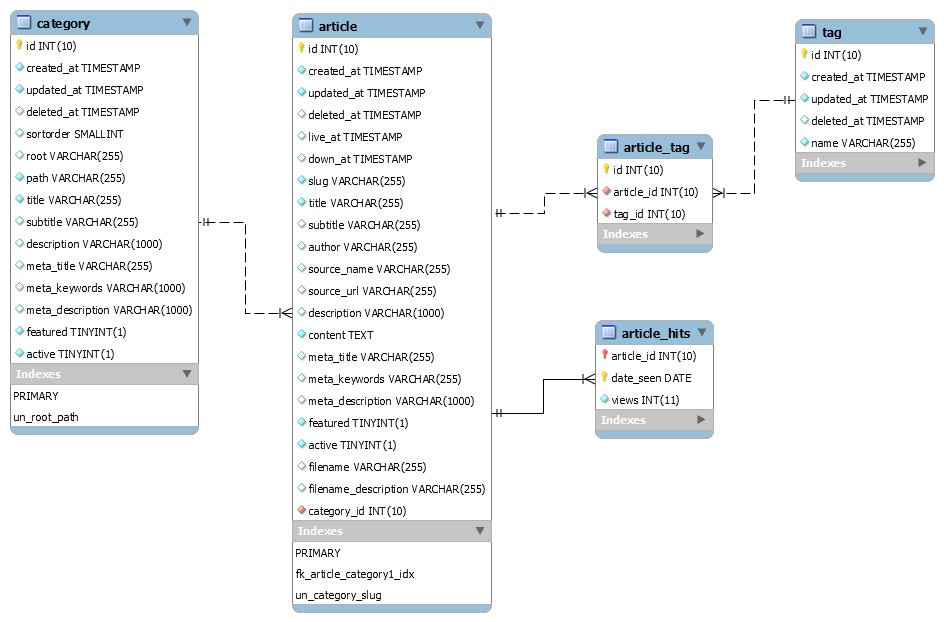
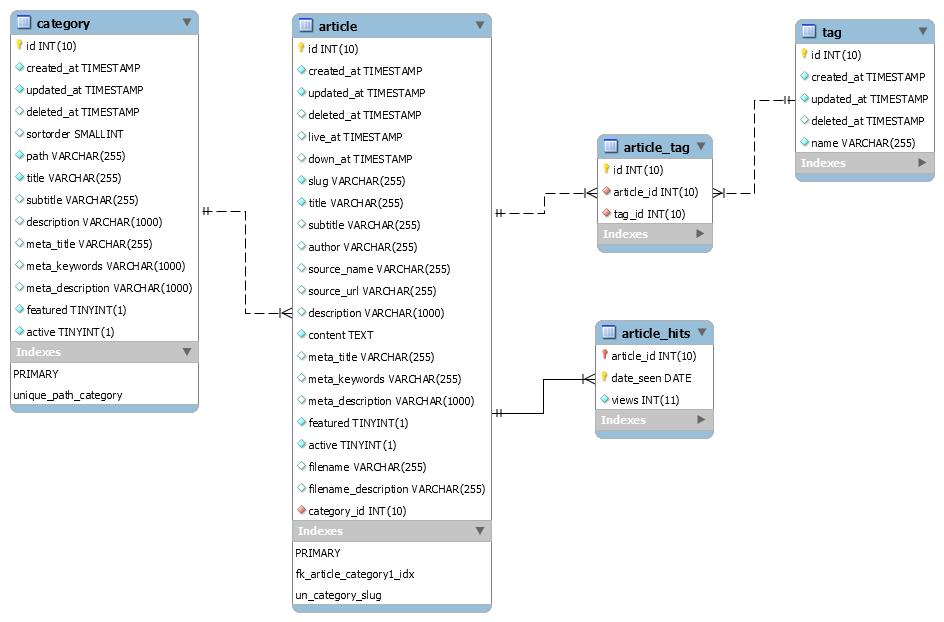
changes to category table structure

Changed region(s): [[0.0, 0.2444, 0.215, 0.7026], [0.215, 0.336, 0.2458, 0.3666]]

diff --git a/src/database/migrations/2015_08_25_000000_create_category_table.php b/src/database/migrations/2015_08_25_000000_create_category_table.php
@@ -16,9 +16,8 @@ class CreateCategoryTable extends Migration
             $table->increments('id');
             $table->timestamps();
             $table->softDeletes();
-            $table->string('sortorder')->nullable();
-            $table->string('root')->nullable();
-            $table->string('path');
+            $table->smallInteger('sortorder')->unsigned()->nullable();
+            $table->string('path')->unique();
             $table->string('title');
             $table->string('subtitle')->nullable();
             $table->string('description', 1000)->nullable();
@@ -27,7 +26,6 @@ class CreateCategoryTable extends Migration
             $table->string('meta_description', 1000)->nullable();
             $table->boolean('featured')->default(false);
             $table->boolean('active')->default(true);
-            $table->unique(['root', 'path'], 'un_root_path');
         });
     }
 
